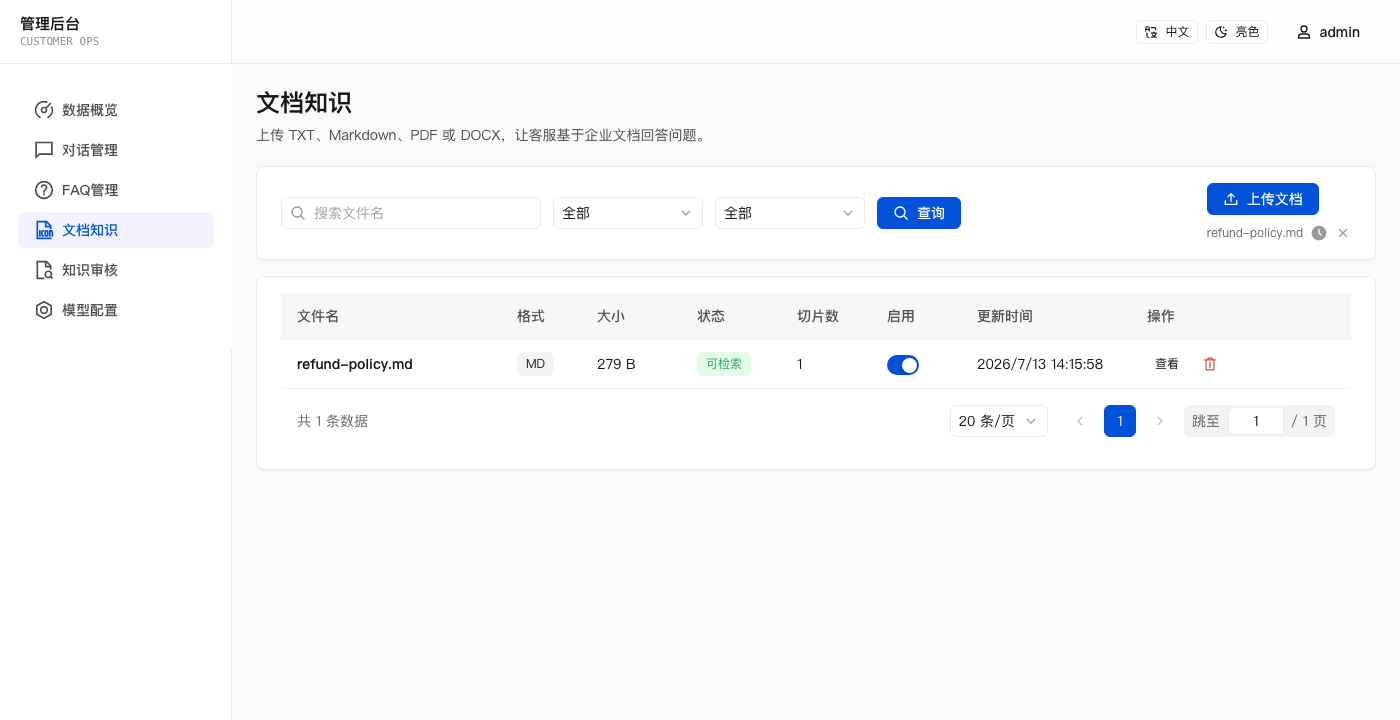
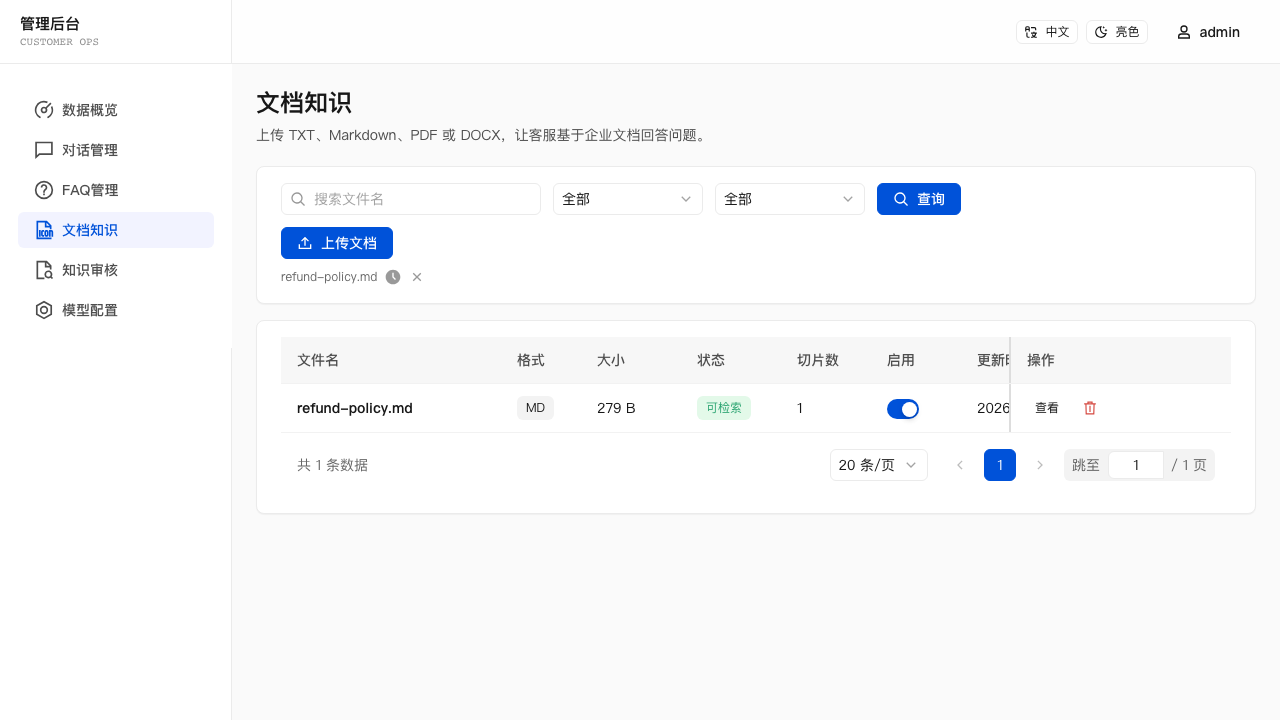
fix: stabilize v0.2.6 release evidence

diff --git a/tests/e2e/web.spec.ts b/tests/e2e/web.spec.ts
@@ -137,62 +137,77 @@ test.describe('Web automation: admin boundaries and FAQ index operation', () => 
   test('admin uploads a document, previews chunks, and customers retrieve its source text', async ({ page }) => {
     const fileName = 'refund-policy.md';
     await loginAsAdmin(page);
+    const token = await page.evaluate(() => localStorage.getItem('auth_token'));
     await page.getByText('文档知识').click();
     await expect(page).toHaveURL(/\/admin\/documents$/);
     await expect(page.getByTestId('documents-page')).toBeVisible();
 
-    const [uploadResponse] = await Promise.all([
-      page.waitForResponse((response) => response.url().endsWith('/api/admin/documents') && response.request().method() === 'POST'),
-      page.locator('input[type="file"]').setInputFiles('tests/fixtures/refund-policy.md'),
-    ]);
-    expect(uploadResponse.status()).toBe(201);
-    const documentId = (await uploadResponse.json()).data.id as string;
-    const row = documentRow(page, fileName);
-    await expect(row).toBeVisible({ timeout: 15_000 });
-    await expect(row).toContainText('可检索');
-    await expect(row).toContainText('MD');
-    if (process.env.CAPTURE_RELEASE_EVIDENCE === '1') {
-      await expect(page.getByText('登录成功')).toBeHidden({ timeout: 8_000 });
-      await expect(page.getByText('文档已解析并加入检索')).toBeHidden({ timeout: 8_000 });
-      await page.screenshot({ path: 'docs/releases/assets/v0.2.6-documents.png', fullPage: true });
+    let documentId: string | undefined;
+    try {
+      const [uploadResponse] = await Promise.all([
+        page.waitForResponse((response) => response.url().endsWith('/api/admin/documents') && response.request().method() === 'POST'),
+        page.locator('input[type="file"]').setInputFiles('tests/fixtures/refund-policy.md'),
+      ]);
+      expect(uploadResponse.status()).toBe(201);
+      documentId = (await uploadResponse.json()).data.id as string;
+      const row = documentRow(page, fileName);
+      await expect(row).toBeVisible({ timeout: 15_000 });
+      await expect(row).toContainText('可检索');
+      await expect(row).toContainText('MD');
+      await expect.poll(() => page.evaluate(() => (
+        document.documentElement.scrollWidth - document.documentElement.clientWidth
+      ))).toBeLessThanOrEqual(0);
+      await expect(page.locator('.app-admin-sidebar')).toBeVisible();
+      await expect.poll(() => page.locator('.app-admin-sidebar').evaluate((element) => (
+        Math.round(element.getBoundingClientRect().width)
+      ))).toBeGreaterThan(200);
+      if (process.env.CAPTURE_RELEASE_EVIDENCE === '1') {
+        await expect(page.getByText('登录成功')).toBeHidden({ timeout: 8_000 });
+        await expect(page.getByText('文档已解析并加入检索')).toBeHidden({ timeout: 8_000 });
+        await page.screenshot({ path: 'docs/releases/assets/v0.2.6-documents.png', fullPage: true });
+      }
+
+      await row.getByTestId('document-view').click();
+      await expect(page.getByTestId('document-detail')).toBeVisible();
+      await expect(page.getByTestId('document-detail')).toContainText('三个工作日');
+      if (process.env.CAPTURE_RELEASE_EVIDENCE === '1') {
+        await page.waitForTimeout(350);
+        await page.screenshot({ path: 'docs/releases/assets/v0.2.6-document-detail.png', fullPage: true });
+      }
+      await page.getByRole('button', { name: '关闭' }).click();
+
+      await page.getByTestId('language-toggle').click();
+      await expect(page.getByRole('heading', { name: 'Document Knowledge' })).toBeVisible();
+      await expect(documentRow(page, fileName)).toContainText('Ready');
+      await page.getByTestId('theme-toggle').click();
+      await expect(page.locator('html')).toHaveAttribute('data-theme', 'dark');
+      const filters = page.locator('.app-toolbar-row .t-select input');
+      await expect(filters).toHaveCount(2);
+      await expect(filters.nth(0)).toHaveValue('All');
+      await expect(filters.nth(1)).toHaveValue('All');
+      await expect(page.getByRole('button', { name: 'admin' })).toBeVisible();
+      await page.setViewportSize({ width: 390, height: 844 });
+      await expect(page.getByTestId('documents-page')).toBeVisible();
+      await expect.poll(() => page.evaluate(() => (
+        document.documentElement.scrollWidth - document.documentElement.clientWidth
+      ))).toBeLessThanOrEqual(0);
+      if (process.env.CAPTURE_RELEASE_EVIDENCE === '1') {
+        await page.screenshot({ path: 'docs/releases/assets/v0.2.6-documents-mobile-dark.png', fullPage: true });
+      }
+
+      await page.goto('/');
+      await page.getByTestId('chat-input').fill('银杏计划退款审核通过后，会在三个工作日内原路返回。');
+      await page.getByTestId('chat-send-button').click();
+      await expect(page.getByTestId('chat-messages')).toContainText(fileName, { timeout: 15_000 });
+      await expect(page.getByTestId('chat-messages')).toContainText('三个工作日');
+    } finally {
+      if (documentId) {
+        const deleted = await page.request.delete(`/api/admin/documents/${documentId}`, {
+          headers: { Authorization: `Bearer ${token}` },
+        });
+        expect(deleted.status()).toBe(200);
+      }
     }
-
-    await row.getByTestId('document-view').click();
-    await expect(page.getByTestId('document-detail')).toBeVisible();
-    await expect(page.getByTestId('document-detail')).toContainText('三个工作日');
-    if (process.env.CAPTURE_RELEASE_EVIDENCE === '1') {
-      await page.waitForTimeout(350);
-      await page.screenshot({ path: 'docs/releases/assets/v0.2.6-document-detail.png', fullPage: true });
-    }
-    await page.getByRole('button', { name: '关闭' }).click();
-
-    await page.getByTestId('language-toggle').click();
-    await expect(page.getByRole('heading', { name: 'Document Knowledge' })).toBeVisible();
-    await expect(documentRow(page, fileName)).toContainText('Ready');
-    await page.getByTestId('theme-toggle').click();
-    await expect(page.locator('html')).toHaveAttribute('data-theme', 'dark');
-    await page.setViewportSize({ width: 390, height: 844 });
-    await expect(page.getByTestId('documents-page')).toBeVisible();
-    const overflow = await page.evaluate(() => ({
-      clientWidth: document.documentElement.clientWidth,
-      scrollWidth: document.documentElement.scrollWidth,
-    }));
-    expect(overflow.scrollWidth).toBeLessThanOrEqual(overflow.clientWidth);
-    if (process.env.CAPTURE_RELEASE_EVIDENCE === '1') {
-      await page.screenshot({ path: 'docs/releases/assets/v0.2.6-documents-mobile-dark.png', fullPage: true });
-    }
-
-    const token = await page.evaluate(() => localStorage.getItem('auth_token'));
-    await page.goto('/');
-    await page.getByTestId('chat-input').fill('银杏计划退款审核通过后，会在三个工作日内原路返回。');
-    await page.getByTestId('chat-send-button').click();
-    await expect(page.getByTestId('chat-messages')).toContainText(fileName, { timeout: 15_000 });
-    await expect(page.getByTestId('chat-messages')).toContainText('三个工作日');
-
-    const deleted = await page.request.delete(`/api/admin/documents/${documentId}`, {
-      headers: { Authorization: `Bearer ${token}` },
-    });
-    expect(deleted.status()).toBe(200);
   });
 
   test('admin reviews a knowledge gap, inspects evidence, and converts it to a searchable FAQ', async ({ page }) => {

diff --git a/client/src/index.css b/client/src/index.css
@@ -211,8 +211,15 @@ select {
 .app-admin-layout {
   height: 100vh;
   min-height: 0;
+  width: 100%;
+  max-width: 100vw;
+  overflow: hidden;
   background-color: var(--app-bg);
   color: var(--app-text);
+}
+
+.app-admin-layout > .t-layout {
+  min-width: 0;
 }
 
 .app-admin-sidebar {
@@ -998,14 +1005,19 @@ html[data-theme='dark'] .t-input,
 html[data-theme='dark'] .t-textarea,
 html[data-theme='dark'] .t-select__wrap,
 html[data-theme='dark'] .t-date-range-picker {
-  background-color: var(--app-surface-muted);
-  border-color: var(--app-border);
-  color: var(--app-text);
+  background-color: var(--app-surface-muted) !important;
+  border-color: var(--app-border) !important;
+  color: var(--app-text) !important;
 }
 
 html[data-theme='dark'] .t-input__inner,
 html[data-theme='dark'] .t-textarea__inner {
-  color: var(--app-text);
+  color: var(--app-text) !important;
+  -webkit-text-fill-color: var(--app-text);
+}
+
+html[data-theme='dark'] .app-admin-header .t-button--variant-text {
+  color: var(--app-text) !important;
 }
 
 html[data-theme='dark'] .t-input__inner::placeholder,
@@ -1042,10 +1054,8 @@ html[data-theme='dark'] .t-menu__item.t-is-active {
     display: none;
   }
 
-  .app-admin-layout {
-    flex-direction: column;
-    max-width: 100vw;
-    overflow-x: hidden;
+  .app-admin-layout.t-layout--with-sider {
+    flex-direction: column !important;
   }
 
   .app-admin-layout > .t-layout {
@@ -1055,11 +1065,19 @@ html[data-theme='dark'] .t-menu__item.t-is-active {
 
   .app-admin-sidebar {
     width: 100% !important;
-    min-width: 0;
-    max-width: 100vw;
+    min-width: 0 !important;
+    max-width: 100vw !important;
     flex: 0 0 auto !important;
     border-right: none;
     border-bottom: 1px solid var(--app-border);
+    overflow: hidden;
+    transition: none;
+  }
+
+  .app-admin-sidebar .t-default-menu,
+  .app-admin-sidebar .t-default-menu__inner {
+    width: 100% !important;
+    max-width: 100% !important;
     overflow: hidden;
     transition: none;
   }

diff --git a/docs/releases/v0.2.6-evidence.md b/docs/releases/v0.2.6-evidence.md
@@ -13,7 +13,7 @@
 
 - `EMBED_PROVIDER=other npm test`: passed route failure handling, knowledge review, four-format parser checks, semantic chunking, document lifecycle/index consistency, generic retrieval, prompt isolation, snapshot compatibility, document HTTP/chat integration, regression checks, and server/client TypeScript.
 - `EMBED_PROVIDER=other npm run eval:faq`: 11 cases; Top1 100%, Top3 100%, no-match 100%; source distribution `hybrid: 9`, `vector: 2`.
-- `EMBED_PROVIDER=other npm run eval:document`: 12 cases parsed from generated real TXT, Markdown, PDF, and DOCX inputs through the production parser and `KnowledgeRetriever`; semantic-v1 Top3 100%, MRR 1.000; structure baseline Top3 100%, MRR 1.000; both hybrid and vector-only results are represented.
+- `EMBED_PROVIDER=other npm run eval:document`: 12 cases parsed from generated real TXT, Markdown, PDF, and DOCX inputs through the production parser and `KnowledgeRetriever`; semantic-v1 Top3 100%, MRR 1.000; structure baseline Top3 100%, MRR 0.958. The rewritten evaluation queries exercise vector retrieval without relying on exact keyword overlap.
 - `PLAYWRIGHT_CHANNEL=chromium npm run test:e2e`: 15/15 API and Chromium tests passed, including document auth/validation/privacy/lifecycle, FAQ SSE compatibility, no-key source fallback, bilingual/theme/mobile UI, and the upload-to-answer workflow.
 - `CAPTURE_RELEASE_EVIDENCE=1 PLAYWRIGHT_CHANNEL=chromium npx playwright test --project=web-chrome --grep "admin uploads a document"`: passed and regenerated the final screenshots below.
 - `EMBED_PROVIDER=other npm run build`: server TypeScript and Vite production build passed. The existing non-blocking PostCSS module-type warning remains.